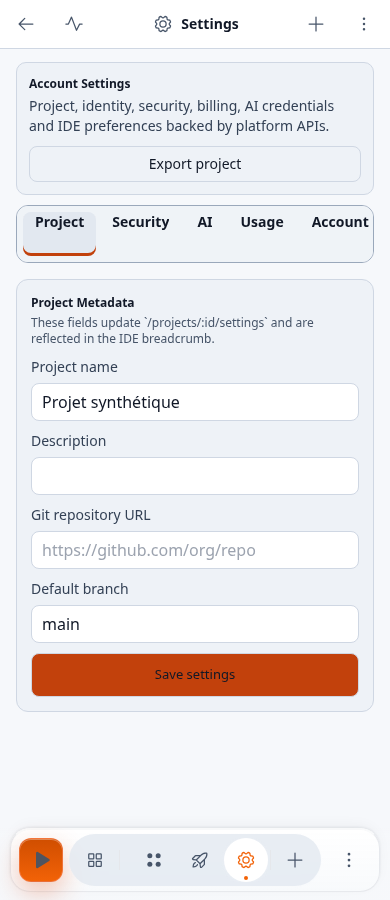
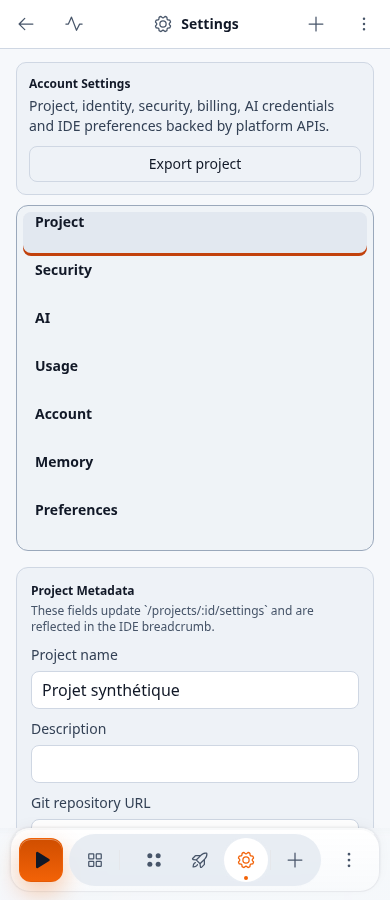
docs(qa): conserver les captures Settings après stabilisation

diff --git a/docs/bugs/ui-settings-mobile-strip-evidence-20261028/README.md b/docs/bugs/ui-settings-mobile-strip-evidence-20261028/README.md
@@ -5,3 +5,5 @@ Six recettes Chromium locales compilées, API synthétiques, aucune soumission d
 Les champs before égaux à0 correspondent à une mesure avant hydratation, pas à une preuve avant correctif. La preuve du défaut original est le test CI strict de #838 (346px, trois essais) et la contre-preuve DOM de session décrite dans la fiche bug. Les mesures after sont celles du build corrigé hydraté.
 
 Le seuil E2E existant60px à390 reste inchangé. Aucune preuve de compte, quota ou facturation backend réelle.
+
+`390-before.png` provient de la reproduction initiale du défaut346px sur le build précédent. Les six images `*-after.png` sont prises après les assertions de stabilité sur le build corrigé, sans override CSS.
